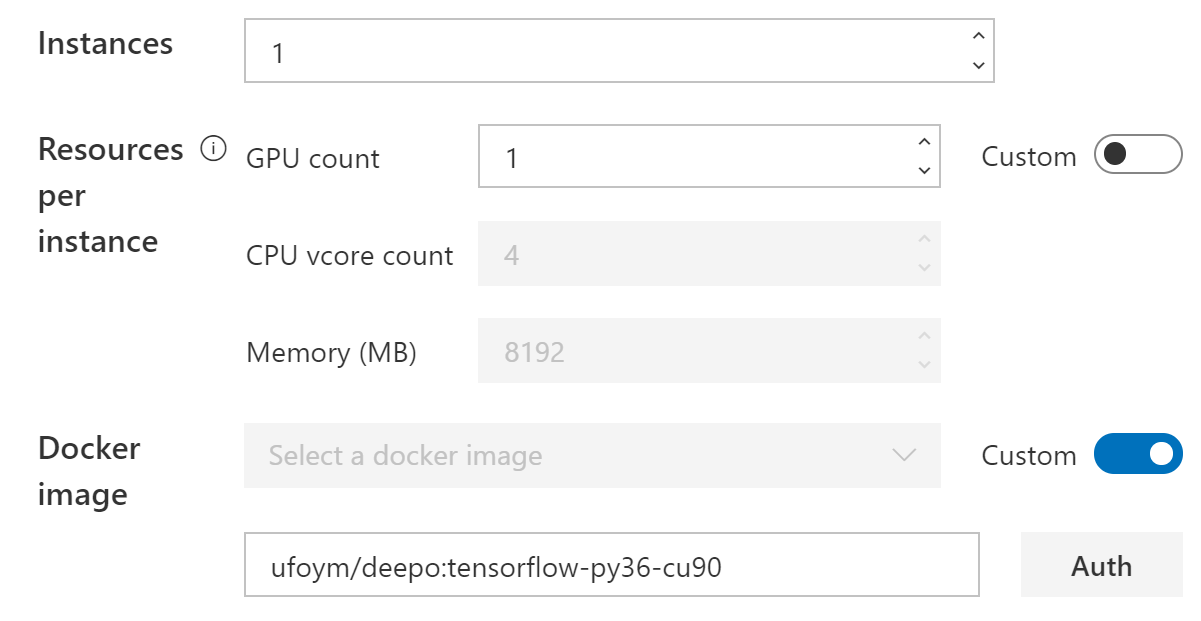
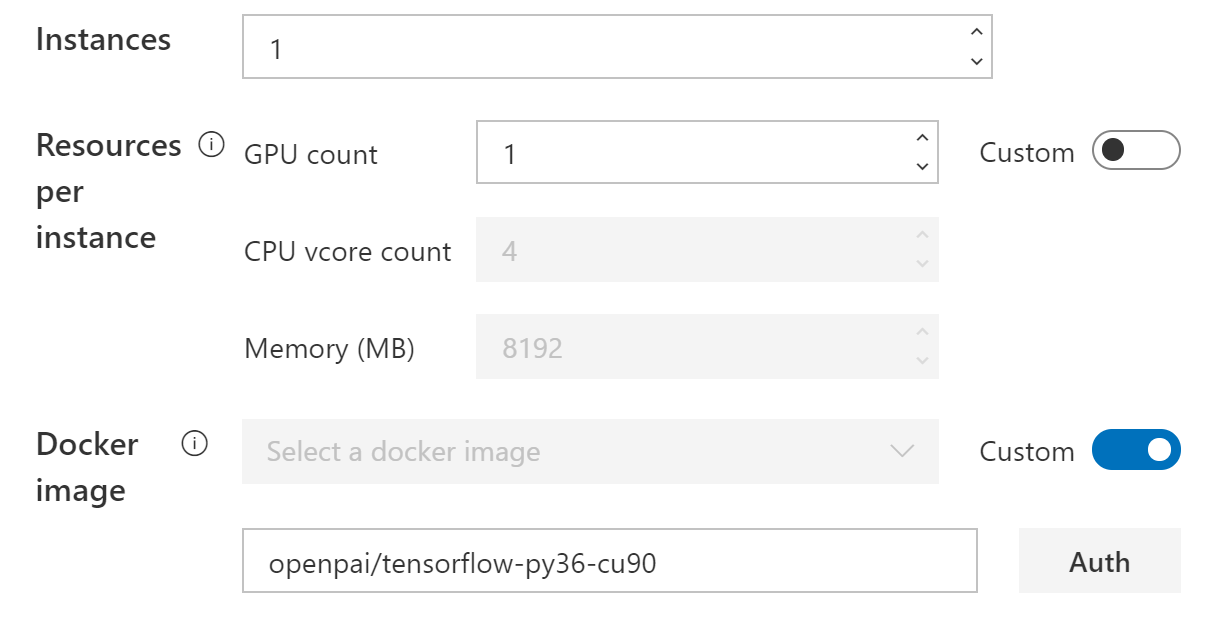
update

diff --git a/src/webportal/src/app/job-submission/utils/constants.js b/src/webportal/src/app/job-submission/utils/constants.js
@@ -112,33 +112,33 @@ All lines will be concatenated by "&&". So do not use characters like "#", "\\" 
 export const DOCKER_OPTIONS = [
   {
     key: 'tensorflow-gpu-python3.6',
-    text: 'tensorflow+python3.6 with gpu, cuda 9.0 (image: ufoym/deepo:tensorflow-py36-cu90)',
-    image: 'ufoym/deepo:tensorflow-py36-cu90',
+    text: 'tensorflow+python3.6 with gpu, cuda 9.0 (image: openpai/tensorflow-py36-cu90)',
+    image: 'openpai/tensorflow-py36-cu90',
   },
   {
     key: 'tensorflow-cpu-python3.6',
-    text: 'tensorflow+python3.6 with cpu (image: ufoym/deepo:tensorflow-py36-cpu)',
-    image: 'ufoym/deepo:tensorflow-py36-cpu',
+    text: 'tensorflow+python3.6 with cpu (image: openpai/tensorflow-py36-cpu)',
+    image: 'openpai/tensorflow-py36-cpu',
   },
   {
     key: 'tensorflow-gpu-python2.7',
-    text: 'tensorflow+python2.7 with gpu, cuda 9.0 (image: ufoym/deepo:tensorflow-py27-cu90)',
-    image: 'ufoym/deepo:tensorflow-py27-cu90',
+    text: 'tensorflow+python2.7 with gpu, cuda 9.0 (image: openpai/tensorflow-py27-cu90)',
+    image: 'openpai/tensorflow-py27-cu90',
   },
   {
     key: 'tensorflow-cpu-python2.7',
-    text: 'tensorflow+python2.7 with cpu (image: ufoym/deepo:tensorflow-py27-cpu)',
-    image: 'ufoym/deepo:tensorflow-py27-cpu',
+    text: 'tensorflow+python2.7 with cpu (image: openpai/tensorflow-py27-cpu)',
+    image: 'openpai/tensorflow-py27-cpu',
   },
   {
     key: 'pytorch-gpu',
-    text: 'pytorch+python3.6 with gpu, cuda 9.0 (image: ufoym/deepo:pytorch-py36-cu90)',
-    image: 'ufoym/deepo:pytorch-py36-cu90',
+    text: 'pytorch+python3.6 with gpu, cuda 9.0 (image: openpai/pytorch-py36-cu90)',
+    image: 'openpai/pytorch-py36-cu90',
   },
   {
     key: 'pytorch-cpu',
-    text: 'pytorch+python3.6 with cpu (image: ufoym/deepo:pytorch-py36-cpu)',
-    image: 'ufoym/deepo:pytorch-py36-cpu',
+    text: 'pytorch+python3.6 with cpu (image: openpai/pytorch-py36-cpu)',
+    image: 'openpai/pytorch-py36-cpu',
   },
 ];
-export const DEFAULT_DOCKER_URI = 'ufoym/deepo:tensorflow-py36-cu90';
+export const DEFAULT_DOCKER_URI = 'openpai/tensorflow-py36-cu90';

diff --git a/docs/user/job_submission.md b/docs/user/job_submission.md
@@ -65,7 +65,7 @@ The following process submits a model training job implemented by TensorFlow on 
 
 4. Specify the resources you need. By default only gpu number could be set. Toggle the "custom" button if you need to customize CPU number and memory. Here we use the default setting which utilizes one GPU.
 
-5. Specify the docker image. You can either use the listed docker images or take advantage of your own one. Here we use "ufoym/deepo:tensorflow-py36-cu90" as the docker image. OpenPAI will pull images from the [official Docker Hub](https://hub.docker.com/). If you want to use your own Docker registry, please click the "Auth" button and fill in the required information.
+5. Specify the docker image. You can either use the listed docker images or take advantage of your own one. Here we use "openpai/tensorflow-py36-cu90" as the docker image. OpenPAI will pull images from the [official Docker Hub](https://hub.docker.com/). If you want to use your own Docker registry, please click the "Auth" button and fill in the required information.
 
    <img src="imgs/submit_hello_world_3.png" width="60%" height="60%" alt="hello_world3" />
 
@@ -93,7 +93,7 @@ The Hello World job is set to download the CIFAR-10 dataset and train a simple m
 
   OpenPAI uses [Docker](https://www.docker.com/why-docker) to provide consistent and independent environments. With Docker, OpenPAI can serve multiple job requests on the same server. The job environment depends significantly on the docker image you select.
 
-  The hub.docker.com is a public Docker repository. And the [ufoym/deepo](https://hub.docker.com/r/ufoym/deepo) on hub.docker.com is recommended for deep learning. In the hello-world example, it uses a TensorFlow image, *ufoym/deepo:tensorflow-py36-cu90*, in ufoym/deepo. You can also set your own image from private repository by toggling custom button.
+  The hub.docker.com is a public Docker repository. In the hello-world example, it uses a TensorFlow image, *openpai/tensorflow-py36-cu90*. You can also set your own image from private repository by toggling custom button.
 
   If an appropriate Docker image isn't found, you could [build a Docker image](../job_docker_env.md) by your self.
 
